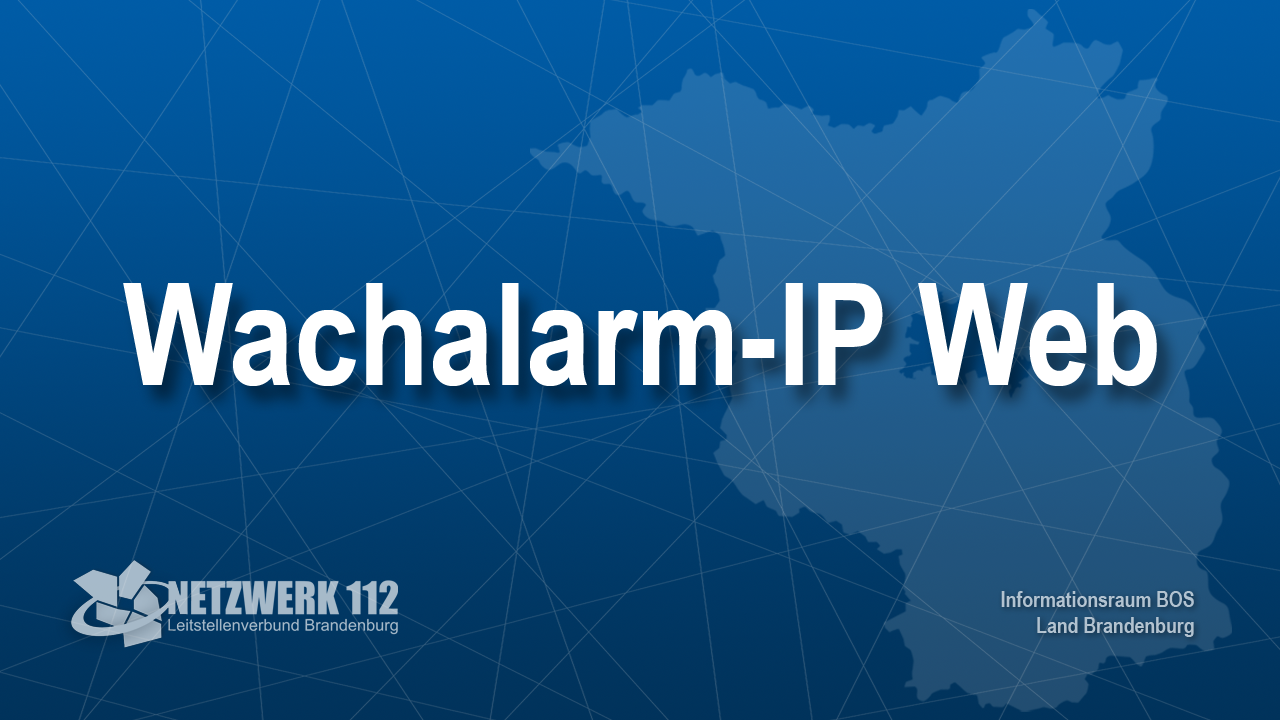
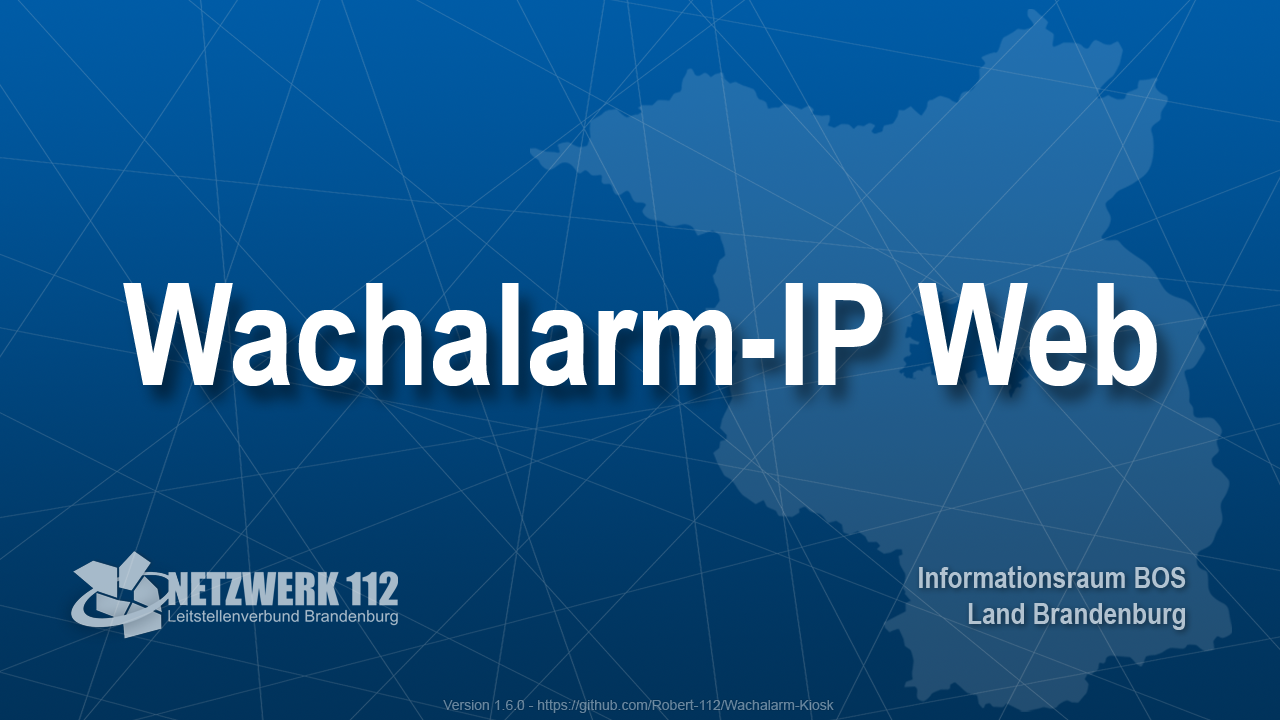
Version 1.6.0

Changed region(s): [[0.0625, 0.7639, 0.3125, 0.9167], [0.7188, 0.7639, 0.9375, 0.8861], [0.3438, 0.9778, 0.6562, 1.0]]

diff --git a/home/waip_standby_websocket.js b/home/waip_standby_websocket.js
@@ -1,6 +1,6 @@
 #!/usr/bin/env node
 
-// Robert Richter, 2025-08-08
+// Robert Richter, 2025-08-11
 
 let standby_screen = process.env.npm_config_standby_screen;
 let standby_tab = process.env.npm_config_standby_tab;
@@ -26,7 +26,7 @@ const CDP = require('chrome-remote-interface');
 const { exec } = require("child_process");
 
 async function waip_sniffer() {
-  
+
   // mit Chrome DevTools Protocol (CDP) verbinden
   const client = await CDP();
 
@@ -34,6 +34,11 @@ async function waip_sniffer() {
 
   await Network.enable();
   await Page.enable();
+
+  // Websocket erstellt
+  Network.webSocketCreated(({ requestId, url }) => {
+    console.log('WebSocket erstellt:', url);
+  });
 
   // WebSocket-Nachrichten aus Chromium verarbeiten
   Network.webSocketFrameReceived(({ requestId, timestamp, response }) => {
@@ -110,6 +115,34 @@ async function waip_sniffer() {
       }
     }
   });
+
+  // Netzwerk 3G-Drosselung aktivieren
+  await Network.emulateNetworkConditions({
+    offline: false,
+    latency: 200, // 200 ms Latenz
+    downloadThroughput: 500 * 1024 / 8, // 500 KB/s Download
+    uploadThroughput: 500 * 1024 / 8, // 500 KB/s Upload
+    connectionType: 'cellular3g'
+  });
+  console.log('Netzwerkdrosselung aktiviert');
+
+  // Seite vollständig neu laden (kein Cache), damit die WebSocket-Verbindung korrekt ausglesen wird
+  await Page.reload({ ignoreCache: true });
+  console.log('Seite neu geladen');
+
+  // 10 Sekunden warten, um sicherzustellen, dass die WebSocket-Verbindung hergestellt ist
+  await new Promise(resolve => setTimeout(resolve, 10000));
+
+  // Netzwerk-Drosselung aufheben
+  await Network.emulateNetworkConditions({
+    offline: false,
+    latency: 0,
+    downloadThroughput: 0,
+    uploadThroughput: 0,
+    connectionType: 'none'
+  });
+  console.log('Netzwerkdrosselung aufgehoben, warte auf WebSocket-Nachrichten...');
+
 }
 
 console.log('start', 'Display:', standby_screen, 'Tab:', standby_tab);
